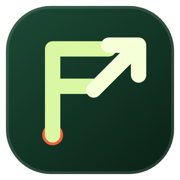
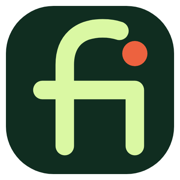
Build research-led typographic identity

Changed region(s): [[0.1667, 0.0833, 0.8333, 0.8611], [0.0278, 0.0278, 0.9722, 0.9722]]

diff --git a/src/styles.css b/src/styles.css
@@ -1,6 +1,6 @@
 :root{--ink:#14251b;--muted:#65726a;--forest:#102d20;--paper:#f7f6f0;--line:#dcded5;--orange:#ff6741;--lime:#d9f99d}
 *{box-sizing:border-box}html{scroll-behavior:smooth;scroll-padding-top:90px}body{margin:0;background:var(--paper);color:var(--ink);font:15px/1.65 'DM Sans',sans-serif;-webkit-font-smoothing:antialiased}button,input,select,textarea{font:inherit;color:inherit}button,a,input,select,textarea{-webkit-tap-highlight-color:transparent}a{color:inherit;text-decoration:none}button{cursor:pointer}button:disabled{cursor:default;opacity:.45}h1,h2,h3{font-family:'Manrope',sans-serif;line-height:1.2;letter-spacing:-.7px}h2{font-size:30px;margin:0 0 18px}h3{font-size:18px}p{margin:0 0 18px}a:focus-visible,button:focus-visible,input:focus-visible,select:focus-visible,textarea:focus-visible{outline:3px solid #467cbd;outline-offset:4px}a:hover{color:#bd4727}.site-shell{overflow:clip}.container,.board-section{width:min(1240px,calc(100% - 48px));margin:auto}.section{padding:70px 0}.eyebrow{font-size:10px;font-weight:800;letter-spacing:.1em;text-transform:uppercase;color:var(--muted);margin:0 0 10px}.muted{color:var(--muted)}.small-note{font-size:12px;color:var(--muted);line-height:1.7}.text-link{display:inline-flex;align-items:center;gap:7px;font-size:13px;font-weight:700;color:#a93f23}.sr-only{position:absolute;width:1px;height:1px;overflow:hidden;clip:rect(0,0,0,0);white-space:nowrap}.skip-link{position:fixed;left:16px;top:-100px;z-index:100;background:white;padding:12px;border-radius:8px}.skip-link:focus{top:12px}.button{display:inline-flex;justify-content:center;align-items:center;gap:8px;padding:13px 18px;border:1px solid transparent;border-radius:9px;background:var(--orange);font-size:13px;font-weight:800;color:#251e16;line-height:1.4}.button:hover{background:#ff7d5c;color:var(--ink)}.button.secondary{background:white;border-color:var(--line);color:var(--ink)}.button.secondary:hover{background:#eff3eb}.button.small{font-size:11px;padding:10px}.quiet-button{background:transparent;border:0;text-decoration:underline;font-size:12px;padding:10px}.storage-warning{padding:12px 24px;margin:0;background:#fff0d4;font-size:13px;text-align:center}
-.site-header{height:74px;padding:0 max(24px,calc((100vw - 1240px)/2));display:flex;align-items:center;gap:32px;background:rgba(247,246,240,.96);backdrop-filter:blur(16px);border-bottom:1px solid var(--line);position:sticky;top:0;z-index:50}.brand{display:inline-flex;align-items:center;gap:10px;white-space:nowrap;font-family:'Manrope',sans-serif;font-weight:800;letter-spacing:-.6px;font-size:17px}.brand:hover{color:inherit}.brand-mark{width:32px;height:32px;display:grid;flex:0 0 auto;place-items:center;overflow:hidden;border-radius:10px;background:linear-gradient(145deg,#1b4632,#0b2418);color:var(--lime);box-shadow:inset 0 0 0 1px #ffffff1f,0 5px 13px #102d2021}.brand-mark svg{width:100%;height:100%}.brand-mark-letter,.brand-mark-launch{fill:none;stroke-linecap:round;stroke-linejoin:round}.brand-mark-letter{stroke:currentColor;stroke-width:4.1}.brand-mark-launch{stroke:#f5ffd8;stroke-width:4.1}.brand-mark-start{fill:var(--orange)}.brand-name{display:inline-flex}.brand-name-accent{color:#42634c}.brand:hover .brand-name-accent{color:#294d35}.main-nav{display:flex;gap:26px;margin-left:auto;font-size:12px;font-weight:700;color:#4e5d53}.saved-nav{display:flex;align-items:center;gap:7px;border:1px solid var(--line);border-radius:9px;padding:8px 12px;background:white;font-size:12px;font-weight:700}.saved-nav span{background:#eef0e9;padding:0 6px;border-radius:10px;font-size:10px}.menu-button{display:none;border:0;background:transparent;padding:6px}.mobile-menu{position:absolute;left:0;right:0;top:100%;background:var(--paper);padding:20px;border-bottom:1px solid var(--line);display:flex;flex-direction:column;gap:15px}
+.site-header{height:74px;padding:0 max(24px,calc((100vw - 1240px)/2));display:flex;align-items:center;gap:32px;background:rgba(247,246,240,.96);backdrop-filter:blur(16px);border-bottom:1px solid var(--line);position:sticky;top:0;z-index:50}.brand{display:inline-flex;align-items:center;gap:8px;white-space:nowrap;font-family:'Manrope',sans-serif;font-weight:800;letter-spacing:-.6px;font-size:17px}.brand:hover{color:inherit}.brand-mark{width:32px;height:36px;display:grid;flex:0 0 auto;place-items:center;color:var(--forest)}.brand-mark svg{width:100%;height:100%;overflow:visible}.brand-mark-ligature{fill:none;stroke:currentColor;stroke-width:5;stroke-linecap:round;stroke-linejoin:round}.brand-mark-dot{fill:var(--orange)}.brand-name{display:inline-flex}.brand-name-accent{color:#42634c}.brand:hover .brand-name-accent{color:#294d35}.main-nav{display:flex;gap:26px;margin-left:auto;font-size:12px;font-weight:700;color:#4e5d53}.saved-nav{display:flex;align-items:center;gap:7px;border:1px solid var(--line);border-radius:9px;padding:8px 12px;background:white;font-size:12px;font-weight:700}.saved-nav span{background:#eef0e9;padding:0 6px;border-radius:10px;font-size:10px}.menu-button{display:none;border:0;background:transparent;padding:6px}.mobile-menu{position:absolute;left:0;right:0;top:100%;background:var(--paper);padding:20px;border-bottom:1px solid var(--line);display:flex;flex-direction:column;gap:15px}
 .hero{background:var(--forest);color:#fff;position:relative}.hero:before{content:'';position:absolute;inset:0;opacity:.13;background-image:radial-gradient(circle at 1px 1px,#fff 1px,transparent 0);background-size:28px 28px;pointer-events:none}.hero-inner{position:relative;width:min(1240px,calc(100% - 48px));margin:auto;display:grid;grid-template-columns:1.25fr .75fr;gap:90px;align-items:center;padding:86px 0 92px}.hero-eyebrow{display:inline-flex;gap:8px;align-items:center;color:var(--lime);font-size:10px;letter-spacing:.08em;text-transform:uppercase;font-weight:700;border:1px solid #496048;border-radius:7px;padding:7px 11px;margin-bottom:25px}.hero h1{font-size:clamp(44px,5.2vw,70px);letter-spacing:-3.7px;line-height:1.04;margin:0}.hero h1 em{font-style:normal;color:var(--lime)}.hero-subtitle{color:#b9c8bd;font-size:17px;max-width:600px;line-height:1.75;margin:26px 0}.hero-search{display:flex;gap:11px;align-items:center;background:white;color:var(--ink);padding:8px 8px 8px 16px;border-radius:12px;box-shadow:0 18px 45px #0003}.hero-search input{min-width:0;flex:1;border:0;background:white;outline-offset:1px;font-size:13px}.hero-search button{display:flex;align-items:center;gap:8px;border:0;background:var(--orange);border-radius:8px;padding:13px 16px;font-size:12px;font-weight:800;white-space:nowrap}.hero-trust{display:flex;gap:25px;margin-top:20px;color:#b7c7b9;font-size:11px}.hero-trust span{display:flex;gap:7px;align-items:center}.hero-trust svg{color:var(--lime)}.hero-visual{transform:rotate(-2deg)}.visual-heading{font-size:9px;letter-spacing:.13em;color:#adc0b0;margin-bottom:16px}.hero-visual>a{display:flex;align-items:center;gap:16px;padding:17px 20px;margin:9px 0;border-radius:13px;background:var(--year-color);color:var(--ink);box-shadow:0 8px 30px #0002;transition:transform .2s}.hero-visual>a:hover{transform:translateX(5px)}.hero-visual>a>span{width:43px;height:43px;display:grid;place-items:center;border:1px solid #14251b33;border-radius:50%;font-size:12px;font-weight:800}.hero-visual strong{font-family:'Manrope',sans-serif;font-size:18px}.hero-visual small{display:block;color:#425348;font-size:11px}.hero-visual svg{margin-left:auto}.visual-footnote{display:flex;gap:6px;margin-top:20px;font-size:10px;color:#adc0b0}
 .year-grid{display:grid;grid-template-columns:repeat(4,1fr);gap:12px;margin:28px 0 20px}.year-grid>a{position:relative;border:1px solid var(--line);border-radius:13px;background:#fff;padding:22px;display:grid;grid-template-columns:auto 1fr;gap:2px 13px;align-items:center}.year-grid>a:hover{border-color:#a4b293;color:var(--ink);background:#fbfff6}.year-number{grid-row:1/3;display:grid;place-items:center;width:43px;height:43px;background:var(--year-color);border-radius:50%;font-size:11px;font-weight:800}.year-grid strong{font-family:'Manrope',sans-serif;font-size:16px}.year-grid small{color:var(--muted);font-size:10px}.year-grid svg{position:absolute;right:12px;top:12px;color:#64745e}.field-links{display:flex;gap:8px;flex-wrap:wrap;margin:22px 0}.field-links a{display:inline-flex;gap:8px;align-items:center;border:1px solid var(--line);padding:8px 12px;border-radius:8px;background:#fff;font-size:11px;font-weight:700}.field-links a:hover{background:var(--lime);color:var(--ink)}.section-heading{display:flex;align-items:flex-end;justify-content:space-between;gap:25px;margin-bottom:30px}.section-heading h2{font-size:38px;margin-bottom:8px}.section-heading p:not(.eyebrow){font-size:13px;color:var(--muted);margin:0}.result-count{border:1px solid var(--line);border-radius:30px;padding:6px 12px;background:white;font-size:11px;white-space:nowrap}
 .board-section{padding:25px 0 65px}.board-layout{display:grid;grid-template-columns:245px minmax(0,1fr);gap:38px}.filters{align-self:start;position:sticky;top:98px;padding:20px;border:1px solid var(--line);border-radius:13px;background:#f1f2e9}.filter-heading{display:flex;align-items:center;justify-content:space-between;margin-bottom:20px;font-size:12px}.filter-heading button{border:0;background:transparent;text-decoration:underline;color:var(--muted);font-size:10px}.search-label{display:block;margin:17px 0 7px;font-size:10px;text-transform:uppercase;font-weight:800;letter-spacing:.04em}.filter-search{display:flex;align-items:center;gap:7px;border:1px solid var(--line);background:white;border-radius:7px;padding:9px}.filter-search input{width:100%;min-width:0;font-size:11px;border:0;outline-offset:1px}.filters select{width:100%;padding:9px 7px;border:1px solid var(--line);background:#fff;border-radius:7px;font-size:11px}.filters fieldset{border:0;padding:0;margin:22px 0}.filters legend{font-size:10px;text-transform:uppercase;font-weight:800;letter-spacing:.04em;margin-bottom:5px}.filters fieldset label{display:flex;gap:7px;margin:10px 0;font-size:11px;align-items:center}.filters input[type=checkbox]{accent-color:var(--forest)}.filter-note{display:flex;gap:8px;padding:13px 0;margin:18px 0 5px;border-top:1px solid var(--line)}.filter-note svg{flex-shrink:0;margin-top:3px}.filter-note p{font-size:10px;color:var(--muted);margin:0}.filter-note strong{display:block;color:var(--ink)}.filters>.text-link{font-size:10px}.year-group{margin-bottom:35px}.group-heading{display:flex;align-items:center;gap:12px;margin-bottom:14px}.group-heading .eyebrow{font-size:8px;margin:0 0 2px}.group-heading h3{margin:0;font-size:18px}.group-number{width:38px;height:38px;display:grid;place-items:center;border:1px solid var(--line);border-radius:50%;font-size:10px;background:#e9eddf;font-weight:800}.cards{display:flex;flex-direction:column;gap:10px}.job-card{position:relative;background:white;border:1px solid var(--line);border-radius:13px;transition:box-shadow .2s,border-color .2s}.job-card:hover{box-shadow:0 10px 30px #2137250c;border-color:#aeb7a4}.save-button{position:absolute;top:14px;right:14px;z-index:2;width:31px;height:31px;display:grid;place-items:center;border:1px solid var(--line);border-radius:50%;background:white;color:#66776d}.save-button.is-saved{color:var(--forest);border-color:var(--forest);background:#eaf5df}.card-main{display:grid;grid-template-columns:auto minmax(0,1fr) 155px;gap:15px;align-items:start;padding:24px 58px 24px 22px}.card-main:hover{color:var(--ink)}.company-mark{width:43px;height:43px;display:grid;place-items:center;border-radius:11px;color:white;font-size:11px;font-weight:800;flex-shrink:0}.company-line{color:var(--muted);font-size:10px;font-weight:700}.job-copy h3{font-size:16px;line-height:1.4;margin:3px 0 7px;letter-spacing:-.35px}.job-copy>p{font-size:11px;color:var(--muted);line-height:1.65;margin:0 0 9px}.job-meta{display:flex;gap:7px 14px;flex-wrap:wrap;font-size:10px;color:var(--muted)}.job-meta span:first-child{color:#39613f;font-weight:700}.status{display:inline-block;font-size:8px;padding:3px 6px;margin-top:8px;background:#f2f4ec;color:#5b6d57;border-radius:4px;font-weight:700}.status.closed{background:#fff0e7;color:#a6502b}.eligibility{padding-left:16px;border-left:1px solid #eeeee6;align-self:stretch;display:flex;flex-direction:column;justify-content:center;gap:5px}.eligibility>span:first-child{text-transform:uppercase;letter-spacing:.04em;color:var(--muted);font-size:8px;font-weight:700}.eligibility strong{font-size:11px;line-height:1.6}.eligibility small{font-size:8px;color:var(--muted);line-height:1.6}.view-link{display:flex;gap:4px;align-items:center;color:#a93f23;font-size:10px;font-weight:700;margin-top:8px}.directory-note{font-size:11px;color:var(--muted);padding:17px 0;border-top:1px solid var(--line)}.empty-state{background:#fff;border:1px solid var(--line);border-radius:15px;padding:60px 25px;text-align:center}.empty-state>svg{color:#678165;margin-bottom:15px}.empty-state h3{margin:0 0 10px}.empty-state p{font-size:13px;color:var(--muted)}.ad-slot{padding:16px;margin:30px 0;background:#f0f0e8;min-height:130px;text-align:center;border-radius:10px}.ad-slot>span{display:block;margin-bottom:10px;text-transform:uppercase;font-size:9px;color:#6d746a;letter-spacing:.07em}

diff --git a/src/polish.css b/src/polish.css
@@ -6,8 +6,9 @@ summary:focus-visible { outline: 3px solid #467cbd; outline-offset: 4px; border-
 .container, .board-section, .hero-inner { width: min(1240px, calc(100% - 72px)); }
 .site-header { height: 84px; background: #faf9f5f5; gap: 32px; }
 .brand { font-size: 20px; letter-spacing: -.9px; }
-.brand-mark { width: 40px; height: 40px; border-radius: 12px; }
-.brand-mark-letter, .brand-mark-launch { stroke-width: 3.9; }
+.brand-mark { width: 36px; height: 40px; }
+.brand-mark-ligature { stroke-width: 4.6; }
+.site-footer .brand-mark { background: none; box-shadow: none; color: var(--lime); }
 .main-nav { font-size: 13px; gap: 28px; }
 .main-nav a { min-height: 40px; display: inline-flex; align-items: center; padding: 0 3px; border-radius: 9px; }
 .main-nav a:hover { color: var(--forest); }
@@ -383,7 +384,7 @@ summary:focus-visible { outline: 3px solid #467cbd; outline-offset: 4px; border-
   .container, .board-section, .hero-inner { width: calc(100% - 40px); }
   .site-header { height: 72px; padding: 0 20px; gap: 13px; }
   .brand { font-size: 16px; }
-  .brand-mark { width: 32px; height: 32px; font-size: 15px; border-radius: 10px; }
+  .brand-mark { width: 29px; height: 33px; }
   .saved-nav { font-size: 11px; padding: 8px 10px; }
   .hero-inner { grid-template-columns: 1fr; padding: 50px 0 54px; gap: 42px; }
   .hero h1 { font-size: clamp(43px, 7.6vw, 62px); letter-spacing: -2.8px; }

diff --git a/src/FirstInternships.jsx b/src/FirstInternships.jsx
@@ -104,9 +104,8 @@ function BrandIdentity() {
   return <>
     <span className="brand-mark" aria-hidden="true">
       <svg viewBox="0 0 48 48" focusable="false">
-        <circle className="brand-mark-start" cx="14" cy="36" r="2.8" />
-        <path className="brand-mark-letter" d="M14 36V13H29M14 23H26" />
-        <path className="brand-mark-launch" d="m25 24 12-12M29 12H37V20" />
+        <path className="brand-mark-ligature" d="M17 40V17c0-6.5 4-10 10.5-10 2.1 0 3.6.3 4.6.8M11 24h25v16" />
+        <circle className="brand-mark-dot" cx="36" cy="13" r="3.4" />
       </svg>
     </span>
     <span className="brand-name"><span>first</span><span className="brand-name-accent">internships</span></span>

diff --git a/docs/FirstInternships-Brand-Brief.md b/docs/FirstInternships-Brand-Brief.md
@@ -226,9 +226,9 @@ Near-black backgrounds, glowing blue accent, white type, data-viz motifs (node f
 - **Hierarchy feel:** one bold statement, lots of breathing room, minimal secondary text.
 
 ### Current website mark and wordmark
-- The current product identity is the lowercase wordmark `firstinternships` plus a custom **F-launch monogram**. The F is the brand anchor; its middle stroke becomes the student's first move, the diagonal exit represents momentum, and the coral origin dot marks the starting point.
+- The current product identity is the lowercase wordmark `firstinternships` plus a custom **one-stroke `fi` signature**. Its uninterrupted crossbar joins the two initials, its rounded terminals make the brand feel approachable rather than institutional, and the coral `i` dot is the single memory accent.
 - The authoritative in-product component is `BrandIdentity` in `src/FirstInternships.jsx`. The vector source is `public/favicon.svg`; `favicon.ico`, `favicon-48.png`, `favicon-96.png` and `apple-touch-icon.png` are derived browser/app assets. `public/og-image.svg` and `public/og-image.png` carry the same symbol for social sharing.
-- Keep the mark text-free so it remains legible at 16px. Do not reintroduce the retired `f` tile, the temporary `fi↗` text tile or the generic stair-arrow mark. Do not substitute employer logos or a generic graduation-cap icon.
+- Keep the mark text-free so it remains legible at 16px. Use the unboxed signature in navigation and the footer; use the flat forest field for favicons, touch icons and compact avatars where contrast is needed. Do not reintroduce the retired `f` tile, temporary `fi↗` tile, stair-arrow or F-launch marks. Do not add generic career metaphors such as graduation caps, briefcases, ladders, doors or arrows.
 - On the live directory, use the established forest/paper system: forest `#102d20`, lime `#daf8a3`, coral `#ed623f`, paper `#faf9f5`, ink `#14251b`, and muted green `#59675f`. The word `internships` may use muted green on light surfaces and lime on the forest footer.
 - Keep the full wordmark next to the mark in navigation and the footer. The symbol alone is appropriate for favicons, app icons and compact avatars.
 - Any future mark change must update the inline component, SVG source, all raster/ICO derivatives and the Open Graph image together, then be checked at wide desktop, 390px mobile and 16–48px icon sizes.

diff --git a/docs/CLAUDE_CODE_PLAYBOOK.md b/docs/CLAUDE_CODE_PLAYBOOK.md
@@ -403,7 +403,7 @@ Personal timeline builder:
 
 Keep the existing editorial visual language unless the task explicitly calls for a redesign. New components should reuse established typography, colors, cards, buttons, spacing, radii, and responsive breakpoints before introducing new primitives.
 
-The current FirstInternships identity is the lowercase wordmark plus the text-free custom F-launch monogram rendered by `BrandIdentity` in `src/FirstInternships.jsx`. The F is the brand anchor; its middle stroke becomes a first move and the diagonal exit supplies momentum. `public/favicon.svg` is the vector source; the ICO/PNG browser icons, Apple touch icon and both Open Graph assets must stay visually synchronized. Do not restore the retired `f` favicon, `fi↗` tile or generic stair-arrow mark. If the mark changes, verify the header and footer on wide desktop and at 390px, inspect a 16–48px raster, rebuild every derived asset, and keep the home link's accessible name.
+The current FirstInternships identity is the lowercase wordmark plus a custom one-stroke `fi` signature rendered by `BrandIdentity` in `src/FirstInternships.jsx`. The uninterrupted crossbar joins the two initials, rounded terminals keep the brand approachable, and the coral `i` dot is the sole memory accent. The navigation and footer use the unboxed signature; `public/favicon.svg` places the same form on a flat forest field for small-size contrast. The ICO/PNG browser icons, Apple touch icon and both Open Graph assets must stay visually synchronized. Do not restore the retired `f` favicon, `fi↗` tile, stair-arrow or F-launch marks, and do not add generic career metaphors such as caps, briefcases, ladders or arrows. If the mark changes, verify the header and footer on wide desktop and at 390px, inspect a 16–48px raster, rebuild every derived asset, and keep the home link's accessible name.
 
 Required behavior:
 
